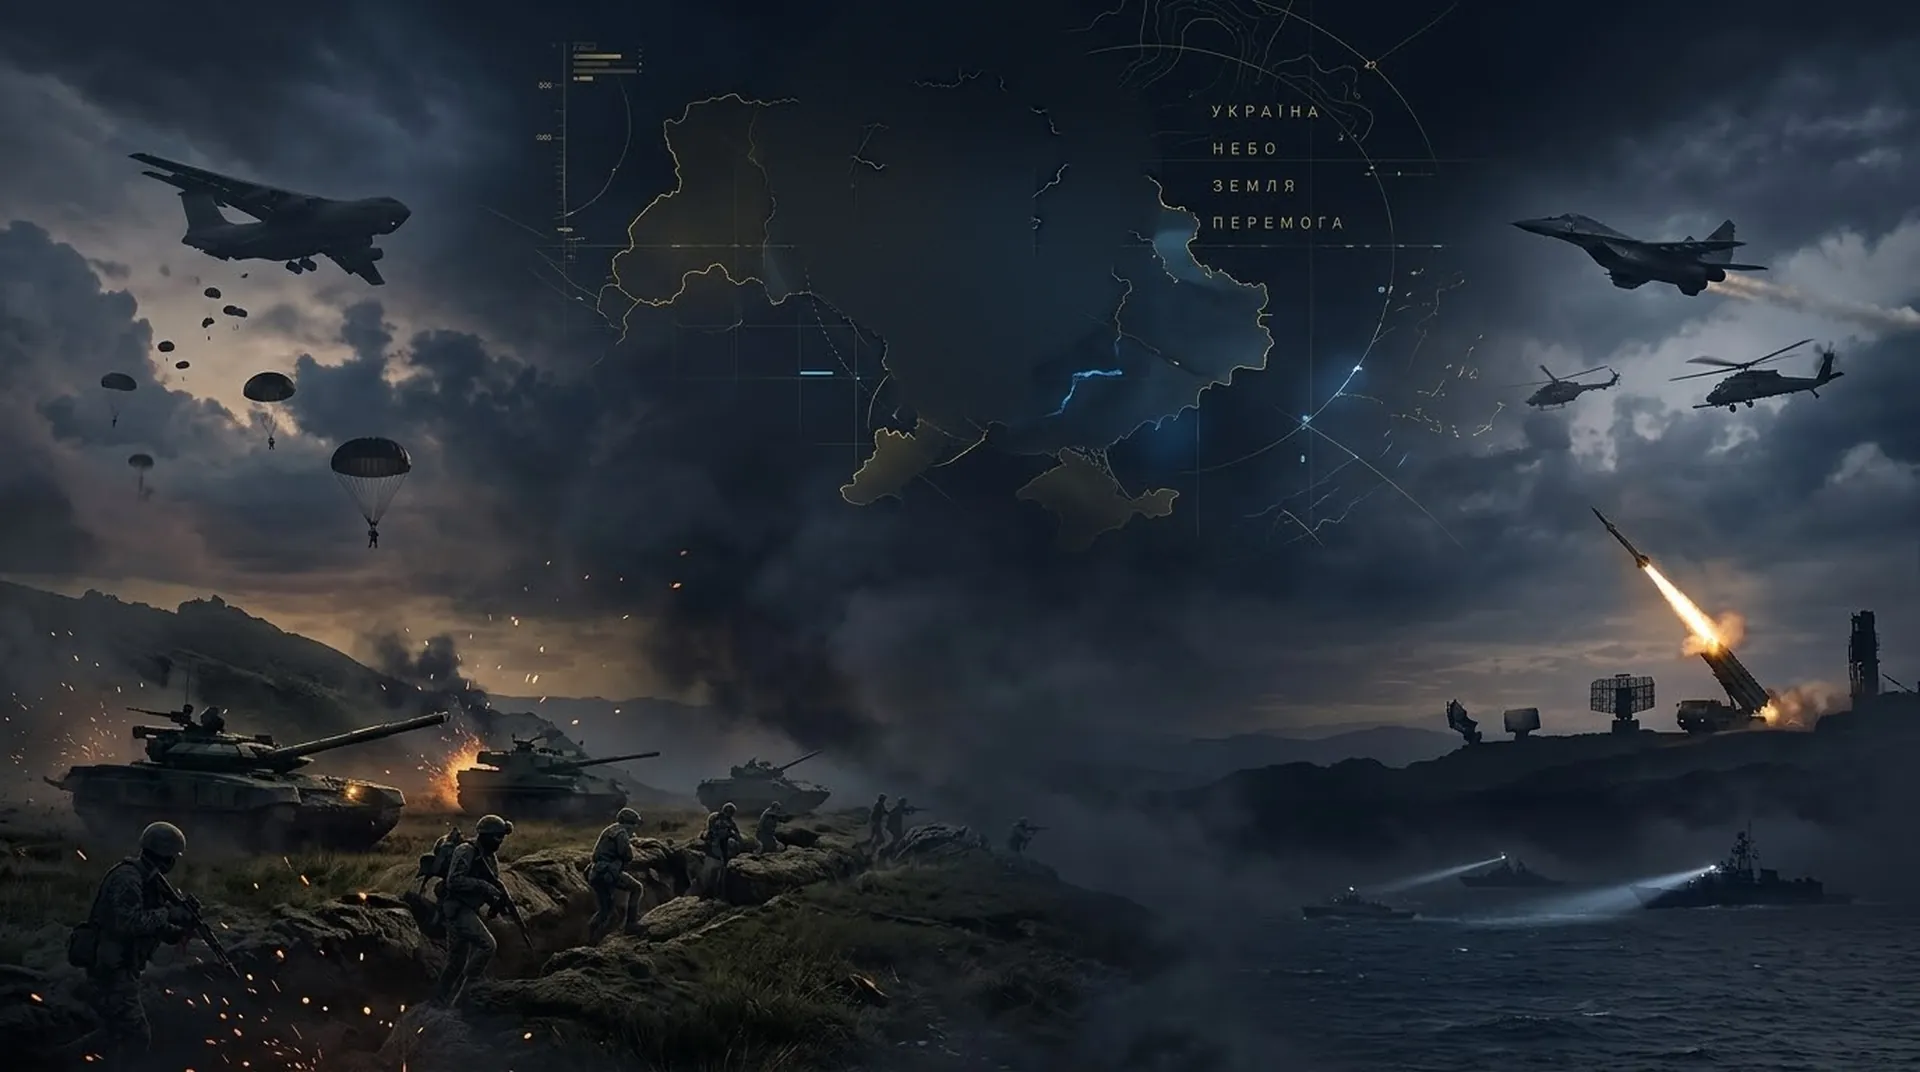
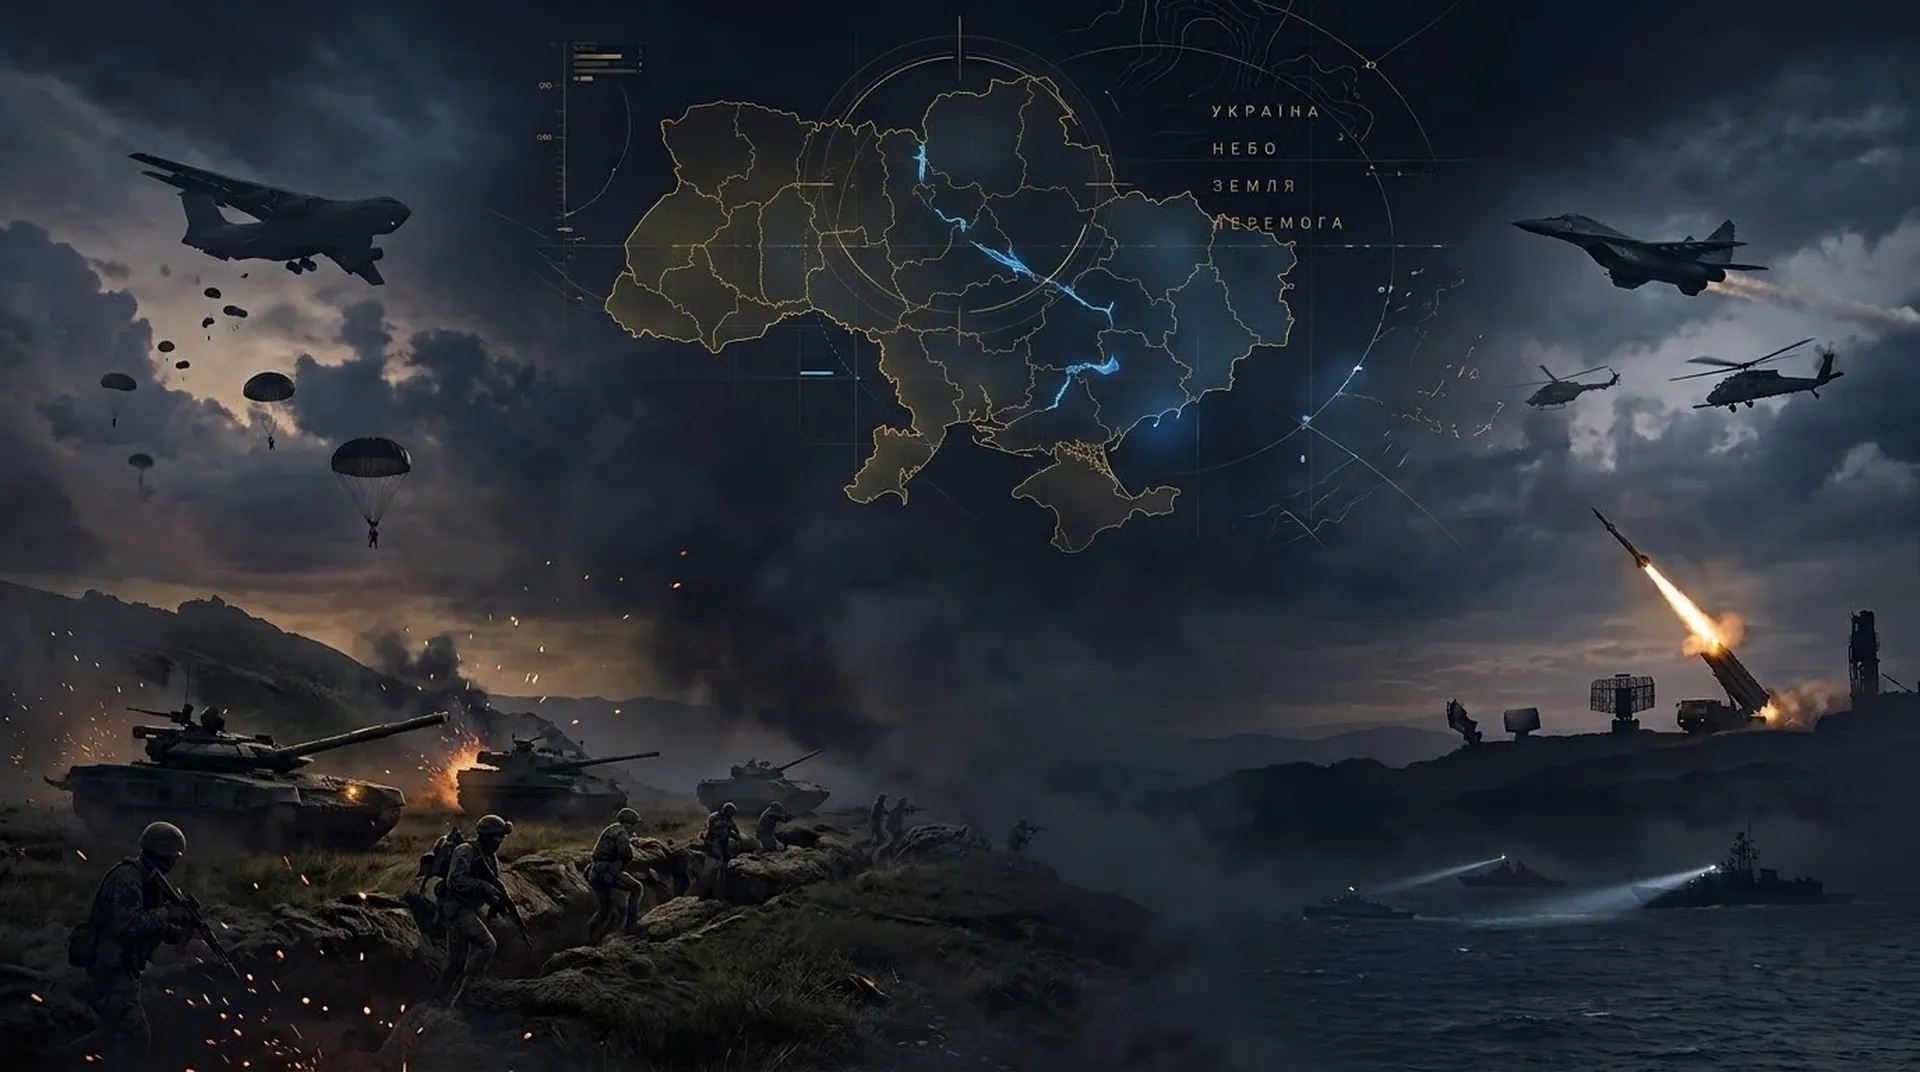
Фон старту: нова картинка користувача, кільце фону концентричне з логотипом easyWAR на будь-якому співвідношенні сторін
Claude-Session: https://claude.ai/code/session_01UJHnS8mrBtBdhfKXVq5Cni

diff --git a/src/index.html b/src/index.html
@@ -624,7 +624,12 @@ body[data-active-branch="air"] #branch-controls,body[data-active-branch="pvk"] #
 </style>
 <style id="easywar-start-wide">
 /* Монітори 16:9 і 16:10: чотири картки в один ряд, фон «cover», а решту висоти добирає масштаб (див. fitStart). */
-#view-start{background-size:auto,auto,auto,cover,auto !important;background-position:center,center,center,center 30%,center !important}
+#view-start{background:
+    linear-gradient(180deg,#06101c 0,#06101c var(--bg-gap,0px),rgba(6,16,28,0) calc(var(--bg-gap,0px) + 120px),rgba(6,16,28,0) 90%,#06101c 100%),
+    radial-gradient(60% 55% at 50% 42%,rgba(6,12,22,.38),transparent 75%),
+    linear-gradient(180deg,rgba(6,12,22,.12),rgba(6,12,22,.34)),
+    url('./launcher-bg.webp') var(--bg-pos,center 30%) / var(--bg-size,cover) no-repeat,
+    #06101c !important}
 @media(min-width:1000px) and (min-aspect-ratio:3/2){
   #view-start > .start-box{width:min(1100px,100%) !important;--branch-card-height:196px}
   #view-start .branch-cards{grid-template-columns:repeat(4,minmax(0,1fr)) !important}
@@ -848,6 +853,21 @@ body[data-active-branch="air"] #branch-controls,body[data-active-branch="pvk"] #
     const avail = start.clientHeight - parseFloat(cs.paddingTop) - parseFloat(cs.paddingBottom);
     const need = box.offsetHeight;
     box.style.zoom = need > avail && avail > 0 ? String(Math.max(0.55, avail / need)) : '';
+    alignBackground(start);
+  }
+  // Кільце з прицілом на фоні стоїть концентрично з кільцем логотипа easyWAR при будь-якому співвідношенні сторін вікна.
+  function alignBackground(host) {
+    const art = host.querySelector('.start-brand-art');
+    if (!art) return;
+    const r = art.getBoundingClientRect();
+    if (!r.width) return;
+    const IW = 1376, IH = 768, RX = 690, RY = 150;          // розмір фонового зображення й центр його кільця
+    const tx = r.left + r.width / 2, ty = r.top + r.height * 0.376;
+    const vw = host.clientWidth, vh = host.clientHeight;
+    const k = Math.max(vw / IW, tx / RX, (vw - tx) / (IW - RX), (vh - ty) / (IH - RY));
+    host.style.setProperty('--bg-size', `${IW * k}px ${IH * k}px`);
+    host.style.setProperty('--bg-pos', `${tx - RX * k}px ${ty - RY * k}px`);
+    host.style.setProperty('--bg-gap', `${Math.max(0, ty - RY * k)}px`);
   }
   window.addEventListener('resize', fitStart);
   window.addEventListener('load', fitStart);
